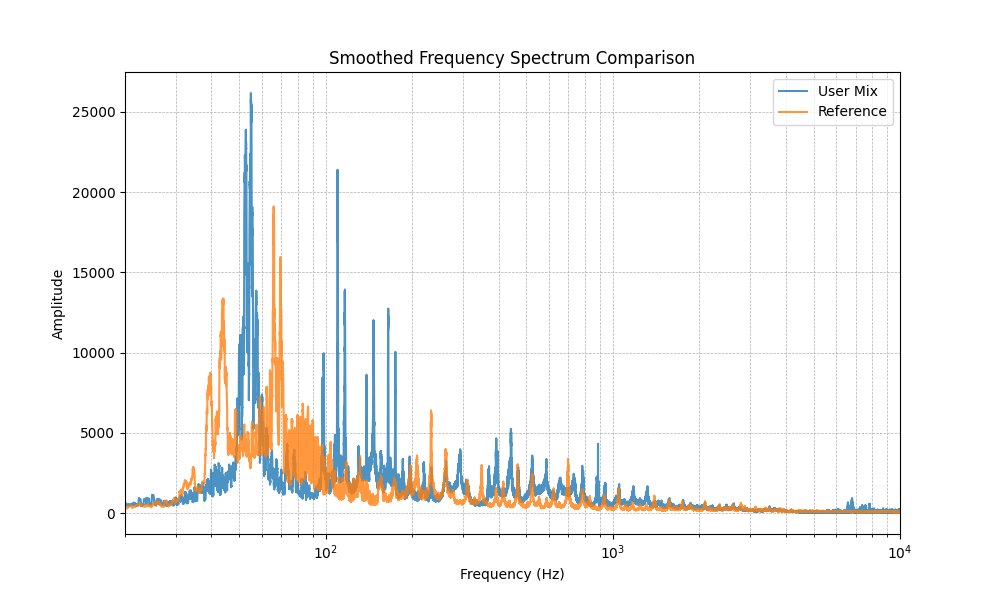
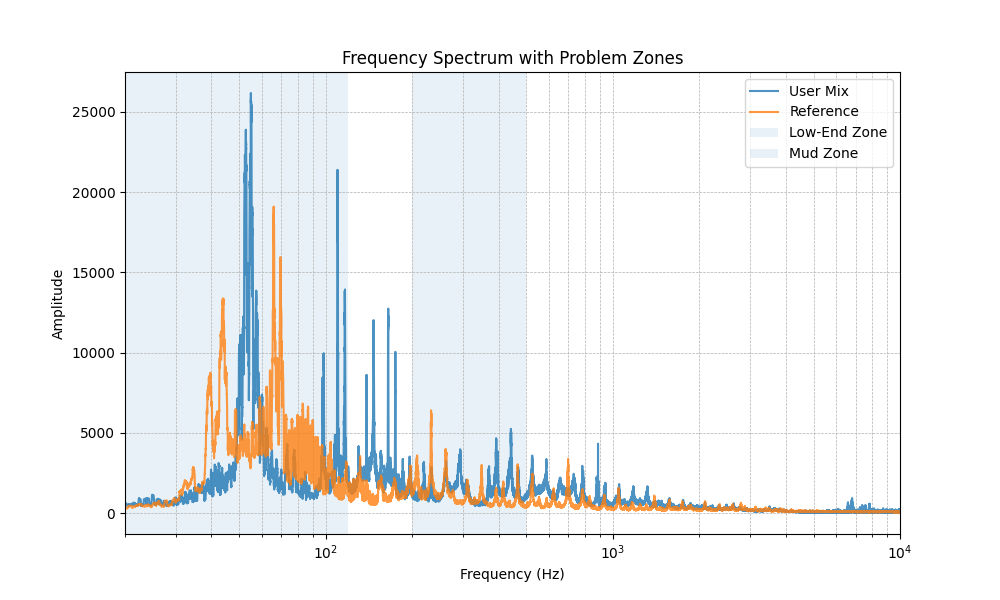
V1.5 - Added visual problem zone highlighting (low-end & mud regions)

Changed region(s): [[0.744, 0.12, 0.899, 0.27], [0.341, 0.09, 0.713, 0.12]]

diff --git a/src/analysis.py b/src/analysis.py
@@ -28,15 +28,15 @@ def get_severity(confidence):
         return "Severe"
 
 
-# 🔥 NEW: smoothing function
+# 🔥 Smooth spectrum
 def smooth(data, window_size=100):
     return np.convolve(data, np.ones(window_size)/window_size, mode='same')
 
 
-# 📊 UPDATED GRAPH FUNCTION (V1.4)
+# 📊 FINAL GRAPH FUNCTION (V1.5)
 def plot_spectrum(freqs1, fft1, freqs2, fft2, output_path):
 
-    # 🔥 Smooth signals
+    # Smooth signals
     fft1 = smooth(fft1)
     fft2 = smooth(fft2)
 
@@ -45,13 +45,17 @@ def plot_spectrum(freqs1, fft1, freqs2, fft2, output_path):
     plt.plot(freqs1, fft1, label="User Mix", alpha=0.8)
     plt.plot(freqs2, fft2, label="Reference", alpha=0.8)
 
-    # 🔥 Log frequency scale (like EQ plugins)
+    # Log scale (like real EQ plugins)
     plt.xscale("log")
     plt.xlim(20, 10000)
 
+    # 🔥 Highlight zones
+    plt.axvspan(20, 120, alpha=0.1, label="Low-End Zone")
+    plt.axvspan(200, 500, alpha=0.1, label="Mud Zone")
+
     plt.xlabel("Frequency (Hz)")
     plt.ylabel("Amplitude")
-    plt.title("Smoothed Frequency Spectrum Comparison")
+    plt.title("Frequency Spectrum with Problem Zones")
 
     plt.legend()
     plt.grid(True, which="both", linestyle="--", linewidth=0.5)
@@ -62,7 +66,7 @@ def plot_spectrum(freqs1, fft1, freqs2, fft2, output_path):
 
 def analyze_mix(y1, sr1, y2, sr2, output_dir):
 
-    # 🔥 Normalize both signals
+    # Normalize
     y1 = normalize_audio(y1)
     y2 = normalize_audio(y2)
 
@@ -71,7 +75,7 @@ def analyze_mix(y1, sr1, y2, sr2, output_dir):
 
     report = []
 
-    # 🎯 LOW-MID (Mud: 200–500 Hz)
+    # 🎯 LOW-MID (Mud)
     user_mud = band_energy(freqs1, fft1, 200, 500)
     ref_mud = band_energy(freqs2, fft2, 200, 500)
 
@@ -87,7 +91,7 @@ def analyze_mix(y1, sr1, y2, sr2, output_dir):
             f"(Confidence: {confidence:.1f}% | Severity: {severity})"
         )
 
-    # 🎯 PRESENCE (2k–5k Hz)
+    # 🎯 PRESENCE
     user_presence = band_energy(freqs1, fft1, 2000, 5000)
     ref_presence = band_energy(freqs2, fft2, 2000, 5000)
 
@@ -103,7 +107,7 @@ def analyze_mix(y1, sr1, y2, sr2, output_dir):
             f"(Confidence: {confidence:.1f}% | Severity: {severity})"
         )
 
-    # 🎯 LOW END (20–120 Hz)
+    # 🎯 LOW-END
     user_low = band_energy(freqs1, fft1, 20, 120)
     ref_low = band_energy(freqs2, fft2, 20, 120)
 
@@ -119,7 +123,7 @@ def analyze_mix(y1, sr1, y2, sr2, output_dir):
             f"(Confidence: {confidence:.1f}% | Severity: {severity})"
         )
 
-    # ✅ No issues fallback
+    # No issues fallback
     if not report:
         report.append("Your mix is well-balanced compared to the reference. No major issues detected.")
 
